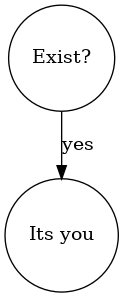
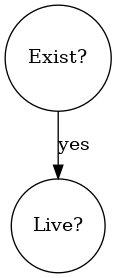
[akr] play interface, update datafile func, refactor ctor to true prefix

diff --git a/tree/akinator/akinator_funcs.cpp b/tree/akinator/akinator_funcs.cpp
@@ -9,6 +9,8 @@ static void generate_akr_dot_log(akr_t *akr) {
 }
 
 node_t *create_node(const char *data) {
+    assert(data != nullptr);
+
     node_t *new_node = (node_t*)calloc(1, sizeof(node_t));
     assert(new_node != nullptr);
 
@@ -20,11 +22,14 @@ node_t *create_node(const char *data) {
 }
 
 char *prefix_buffer_from_akr_datafile(char *datafile_name, char *prefix_buffer) {
+    assert(datafile_name != nullptr);
+    assert(prefix_buffer != nullptr);
+
     FILE *datafile = fopen(datafile_name, "rb");
     assert(datafile != nullptr);
 
     fgets(prefix_buffer, buffers_size, datafile);
-    fprintf(stderr, "[akr] pref buf: %s\n", prefix_buffer);
+    fprintf(stderr, "[akr_funcs] pref buf: %s\n", prefix_buffer);
 
     fclose(datafile);
     return prefix_buffer;
@@ -40,52 +45,144 @@ static char *get_token(char **buf_ptr, char *token) {
         *buf_ptr = *buf_ptr + 1;
     }
 
-    //fprintf(stderr, "[akr in token before while] %c\n", **buf_ptr);
     while (**buf_ptr != '"') {
         token[itter] = **buf_ptr;
         itter++;
         *buf_ptr = *buf_ptr + 1;
-        //fprintf(stderr, "%c", **buf_ptr);
     }
-    //fprintf(stderr, "\n");
+    token[itter] = '\0';
     *buf_ptr = *buf_ptr + 1; // сдвигаем с кавычки
-    //fprintf(stderr, "[akr in token after while] %c\n", **buf_ptr);
 
     return token;
 }
 
 void akr_tree_from_prefix(char **buf_ptr, node_t **current_akr_root, akr_t *akr) { //всего акинатора для логов
-    fprintf(stderr, "[akr] курсор: %c\n", **buf_ptr);
+    assert(buf_ptr != nullptr);
+    assert(current_akr_root != nullptr);
+    assert(akr != nullptr);
+    
+    //fprintf(stderr, "[akr] курсор: %c\n", **buf_ptr);
     if (**buf_ptr == '{') {
         *buf_ptr = *buf_ptr + 1; // на токен в кавычках
 
         char token[256];
         token[0] = '\0';
         get_token(buf_ptr, token);
-        fprintf(stderr, "[akr] token: %s\n", token);
+        fprintf(stderr, "[akr_funcs] token: %s\n", token);
 
         node_t *new_node = create_node(token);
         *current_akr_root = new_node;
         generate_akr_dot_log(akr);
 
+        if (**buf_ptr == '}') {
+            *buf_ptr = *buf_ptr + 1;
+            return;
+        }
         akr_tree_from_prefix(buf_ptr, &((*current_akr_root)->yes), akr); // рекурсивно строим левое дерево (в префиксной записи считаем, что сначала левое указывается)
         akr_tree_from_prefix(buf_ptr, &((*current_akr_root)->no), akr); // рекурсивно строим правое дерево
-    }
-    else if (**buf_ptr == '}') {
-        *buf_ptr = *buf_ptr + 1; // сдвигаемся с } и ливаем с рекурсии
-        return;
+        *buf_ptr = *buf_ptr + 1; // конец подкоренного дерева 
     }
     return;
 }
 
-void akr_prefix_dump(node_t *current_akr_root) {
+void akr_update_datafile(node_t *current_akr_root, FILE *datafile) {
+    assert(datafile != nullptr);
+    assert(current_akr_root != nullptr);
+
     if (!current_akr_root) {
-        fprintf(stderr, "void node\n");
+        fprintf(stderr, "void node, file aint updated\n");
         return;
     }
-    fprintf(stderr, "{");
-    fprintf(stderr, "%s", current_akr_root->data);
-    if(current_akr_root->yes) akr_prefix_dump(current_akr_root->yes);
-    if(current_akr_root->no) akr_prefix_dump(current_akr_root->no);
-    fprintf(stderr, "}");
+    fprintf(datafile, "{");
+    fprintf(datafile, "\"%s\"", current_akr_root->data);
+    if(current_akr_root->yes) akr_update_datafile(current_akr_root->yes, datafile);
+    if(current_akr_root->no) akr_update_datafile(current_akr_root->no, datafile);
+    fprintf(datafile, "}");
+}
+
+static void play_akr(node_t *current_akr_root, akr_t *akr) { //всего акинатора для логов
+    assert(current_akr_root != nullptr);
+    assert(akr != nullptr);
+
+    char answ = '\0';
+    char long_answ[100];
+    fprintf(stdout, "[akr play] Have your object such signs: %s\n", current_akr_root->data);
+    fprintf(stdout, "[akr play] Y/N: ");
+    scanf(" %c", &answ);
+
+    if (answ == 'Y') {
+        fprintf(stdout, "[akr play] EZ, this is: %s\n", current_akr_root->yes->data);
+        fprintf(stdout, "[akr play] THATS RIGHT??? Y/N:");
+        scanf(" %c", &answ);
+
+        if (answ == 'Y') {
+            fprintf(stdout, "[akr play] BYE BYE...\n");
+            return;
+        }
+
+        else {
+            fprintf(stdout, "[akr play] Looks like I don't know this item, let's add it in\n");
+            fprintf(stdout, "[akr play] Formulate a question that would distinguish yours from the previous one: ");
+            scanf("%s", long_answ);
+            char *tmp = current_akr_root->yes->data;
+            current_akr_root->yes->data = strdup(long_answ);
+            fprintf(stdout, "[akr play] Who that was?: ");
+            scanf("%s", long_answ);
+            node_t *new_Y_node = create_node(strdup(long_answ));
+            node_t *new_N_node = create_node(tmp);
+            current_akr_root->yes->yes = new_Y_node;
+            current_akr_root->yes->no = new_N_node;
+            fprintf(stdout, "[akr play] Successfully added bye bye...\n");
+            generate_akr_dot_log(akr);
+            return;
+        }
+    }
+    else if (current_akr_root->no != nullptr) {
+        if (current_akr_root->no->yes != nullptr) play_akr(current_akr_root->no, akr); // если уточняющий вопрос есть
+        else {
+            fprintf(stdout, "[akr play] EZ, this is: %s\n", current_akr_root->no->data);
+            fprintf(stdout, "[akr play] THATS RIGHT??? Y/N:");
+            scanf(" %c", &answ);
+
+            if (answ == 'Y') {
+                fprintf(stdout, "[akr play] BYE BYE...\n");
+                return;
+            }
+
+            else {
+                fprintf(stdout, "[akr play] Looks like I don't know this item, let's add it in\n");
+                fprintf(stdout, "[akr play] Formulate a question that would distinguish yours from the previous one: ");
+                scanf("%s", long_answ);
+                char *tmp = current_akr_root->no->data;
+                current_akr_root->no->data = strdup(long_answ);
+                fprintf(stdout, "[akr play] Who that was?: ");
+                scanf("%s", long_answ);
+                node_t *new_Y_node = create_node(strdup(long_answ));
+                node_t *new_N_node = create_node(tmp);
+                current_akr_root->no->yes = new_Y_node;
+                current_akr_root->no->no = new_N_node;
+                fprintf(stdout, "[akr play] Successfully added bye bye...\n");
+                generate_akr_dot_log(akr);
+                return;
+            }
+        }
+    }
+    return;
+}
+
+void play_akr_interface(node_t *current_akr_root, akr_t *akr) { //всего акинатора для логов
+    assert(current_akr_root != nullptr);
+    assert(akr != nullptr);
+
+    char answ;
+    fprintf(stdout, "[akr intrf] Hello, wanna play? Y/N: ");
+    scanf(" %c", &answ);
+    if (answ == 'Y') {
+        play_akr(current_akr_root, akr);
+    }
+    else {
+        fprintf(stdout, "[akr intrf] OK, cancel...\n");
+        return;
+    }
+    return;
 }

diff --git a/tree/akinator/akinator_main.cpp b/tree/akinator/akinator_main.cpp
@@ -13,13 +13,14 @@ int main(int argc, char *argv[]) {
 
     char **buf_ptr = (char **)calloc(1, sizeof(char *));
     *buf_ptr = &prefix_buf[0];
-    assert(buf_ptr != nullptr);
-    assert(*buf_ptr != nullptr);
 
     akr_tree_from_prefix(buf_ptr, &(akr.root_node), &akr);
 
-    akr_prefix_dump(akr.root_node);
-    fprintf(stderr, "\n");
+    play_akr_interface(akr.root_node, &akr);
+    
+    FILE *datafile = fopen(argv[1], "w");
+    akr_update_datafile(akr.root_node, datafile);
+    fclose(datafile);
     
     return 0;
 }

diff --git a/tree/akinator/akinator_funcs.h b/tree/akinator/akinator_funcs.h
@@ -14,6 +14,10 @@ static char *get_token(char **buf_ptr, char *token);
 
 void akr_tree_from_prefix(char **buf_ptr, node_t **current_akr_root, akr_t *akr);
 
-void akr_prefix_dump(node_t *current_akr_root);
+void akr_update_datafile(node_t *current_akr_root, FILE *datafile);
+
+static void play_akr(node_t *current_akr_root, akr_t *akr);
+
+void play_akr_interface(node_t *current_akr_root, akr_t *akr);
 
 #endif
